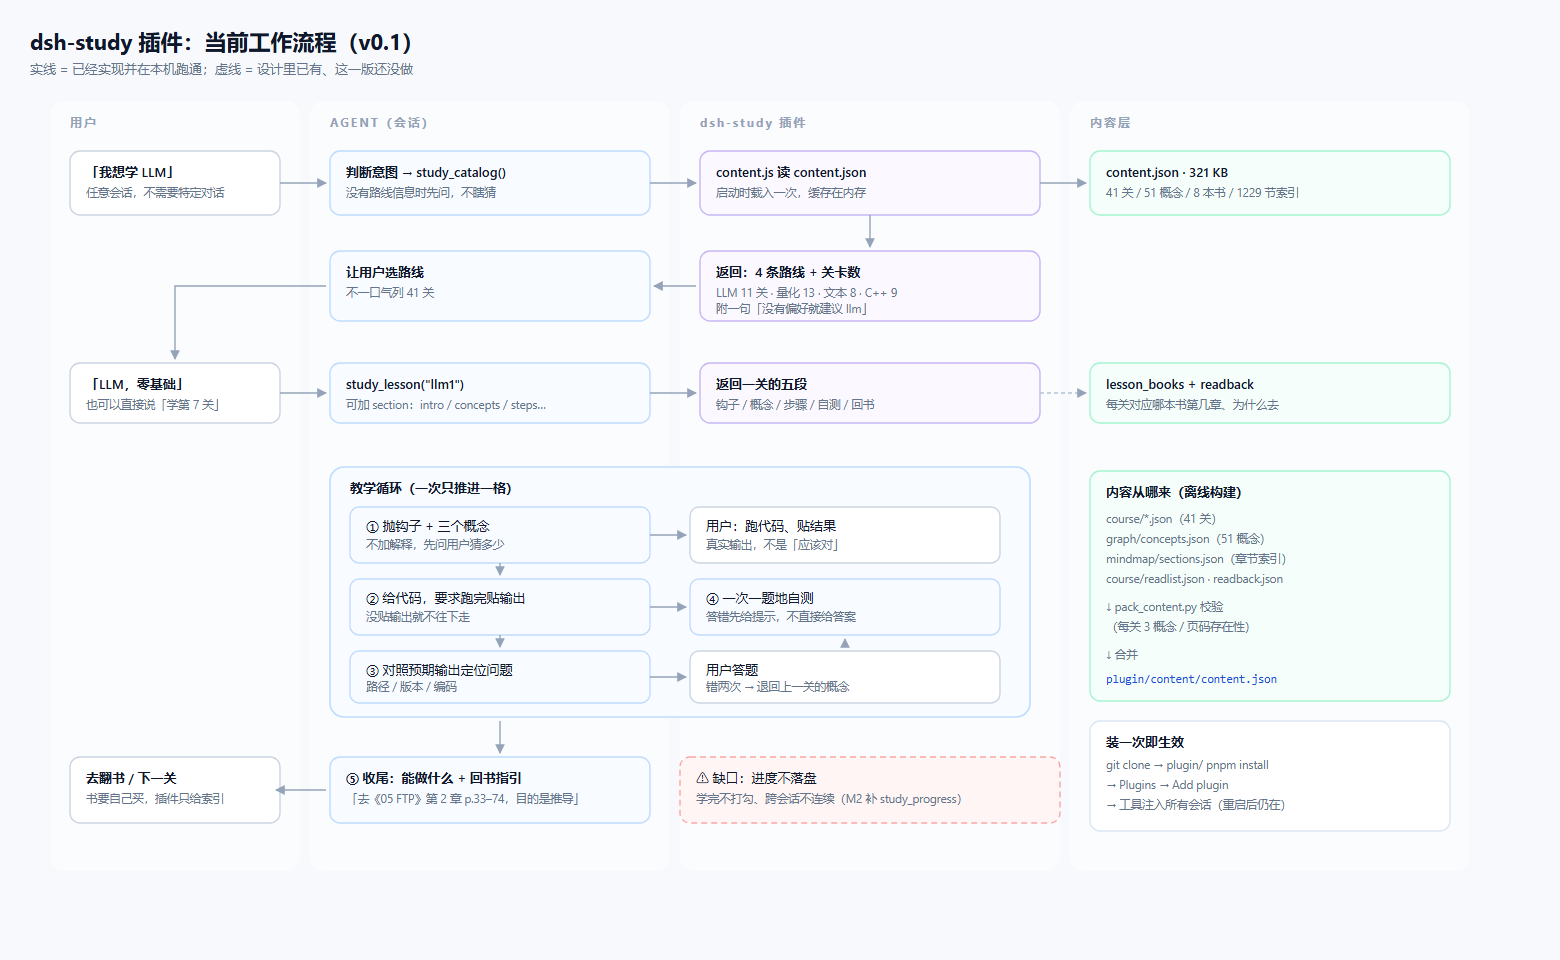
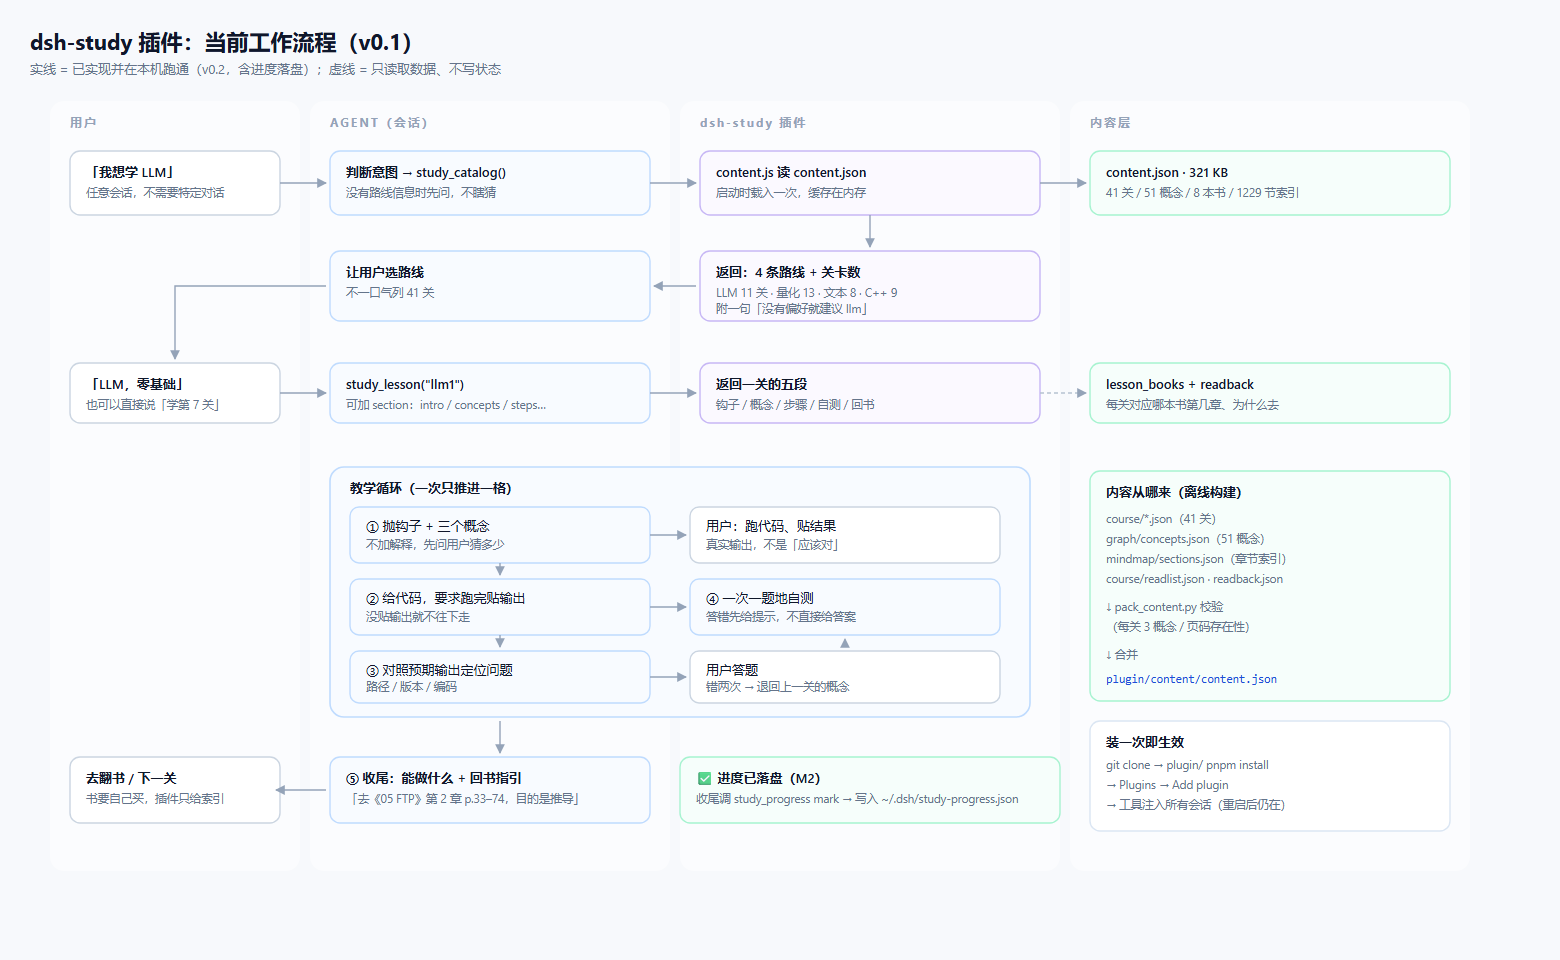
feat(plugin): v0.2 进度落盘 - study_progress 工具 + 续学逻辑

Changed region(s): [[0.4308, 0.7812, 0.6462, 0.8438], [0.0615, 0.0625, 0.3077, 0.0938]]

diff --git a/plugin/tools/progress.js b/plugin/tools/progress.js
@@ -1,0 +1,104 @@
+import { content, orderedLessons, nextLessonFor, lesson as getLesson } from '../content.js'
+import { load, save, mark, unmark, trackState } from '../progress.js'
+import { textOutput, ok } from './common.js'
+
+function summaryLine(trackDef, state) {
+  const ls = orderedLessons(trackDef.id)
+  const t = state.tracks?.[trackDef.id] || { done: [], current: null }
+  const done = ls.filter(l => t.done.includes(l.id)).length
+  const next = nextLessonFor(ls, t.done)
+  return {
+    id: trackDef.id,
+    name: trackDef.name,
+    done,
+    total: ls.length,
+    current: t.current,
+    next: next ? { id: next.id, title: next.title, min: next.min } : null,
+  }
+}
+
+export const progressTool = {
+  name: 'study_progress',
+  description:
+    '查看或更新学习进度：show 看每条线学到哪、下一关是什么；mark 把某一关标记为已完成；unmark 取消。进度存在本机，跨会话保留。',
+  parameters: {
+    action: {
+      type: 'string',
+      required: true,
+      description: 'show = 查看；mark = 标记完成；unmark = 取消标记。',
+    },
+    lesson_id: { type: 'string', description: 'mark / unmark 时的关卡 id，例如 l7、llm3。' },
+    track: { type: 'string', description: '只显示某条线（llm / quant / nlp / cpp）；省略则全部显示。' },
+  },
+  output: textOutput,
+  execute: async (args) => {
+    const action = String(args.action || 'show').toLowerCase()
+    const state = load()
+    const all = content().tracks
+
+    if (action === 'show') {
+      const list = args.track ? all.filter(t => t.id === args.track) : all
+      if (!list.length) return ok(`没有这条路线：${args.track}。可选：${all.map(t => t.id).join(' / ')}`)
+      const rows = list.map(t => summaryLine(t, state))
+      const lines = ['# 学习进度', '']
+      for (const r of rows) {
+        lines.push(`## ${r.name}：${r.done} / ${r.total}`)
+        if (r.next) lines.push(`下一关：[${r.next.id}] ${r.next.title} · ${r.next.min} 分钟`)
+        else lines.push('这条线已经全部完成。')
+        if (r.current) {
+          const cur = getLesson(r.current)
+          if (cur) lines.push(`最近完成：${cur.title}（${cur.id}）`)
+        }
+        lines.push('')
+      }
+      lines.push(`进度文件：${state.updated ? '最后更新 ' + state.updated : '还没记录过任何一关'}`)
+      return ok(lines.join('\n'))
+    }
+
+    const lessonId = String(args.lesson_id || '').trim()
+    if (!lessonId) return ok('mark / unmark 需要 lesson_id，例如 study_progress action=mark lesson_id=l7')
+
+    const l = getLesson(lessonId)
+    if (!l) return ok(`没有这一关：${lessonId}。可以先用 study_catalog 看关卡 id。`)
+    const trackId = l.track
+    if (!trackId) return ok(`这一关不属于任何路线：${lessonId}`)
+
+    const isMark = action === 'mark'
+    const before = (state.tracks?.[trackId]?.done || []).includes(lessonId)
+    if (isMark) mark(state, trackId, lessonId)
+    else unmark(state, trackId, lessonId)
+
+    const res = save(state)
+    const s = summaryLine(content().tracks.find(t => t.id === trackId), state)
+    const lines = []
+    if (isMark) {
+      lines.push(before ? `这一关之前就标过了：${l.title}` : `已标记完成：${l.title}（${lessonId}）`)
+    } else {
+      lines.push(`已取消标记：${l.title}（${lessonId}）`)
+    }
+    lines.push(`${s.name}：${s.done} / ${s.total}`)
+    if (s.next) lines.push(`下一关：[${s.next.id}] ${s.next.title} · ${s.next.min} 分钟`)
+    else lines.push('这条线全部完成了。')
+    if (!res.ok) lines.push(`⚠ 进度没能写入磁盘（${res.error}），本次会话有效，重启会丢。写在 ${res.path}`)
+
+    // 回书指引：完成一关后顺手给
+    if (isMark) {
+      const c = content()
+      const refs = c.lesson_books?.[lessonId] || []
+      const rb = c.readback?.[lessonId]
+      if (refs.length || rb) {
+        lines.push('', '## 回书')
+        if (rb) lines.push(`目的：**${rb[0]}** —— ${rb[1]}`)
+        for (const [code, ch] of refs) {
+          const book = c.books.find(b => b.code === code)
+          const secs = c.sections?.[code]?.[ch - 1] || []
+          const page = secs.length ? `p.${secs[0][1]}–${secs[secs.length - 1][1]}` : ''
+          lines.push(`- 《${code} ${book?.short || ''}》第 ${ch} 章 ${page}`)
+        }
+      }
+    }
+    return ok(lines.join('\n'))
+  },
+}
+
+export { trackState }

diff --git a/plugin/tools/catalog.js b/plugin/tools/catalog.js
@@ -1,10 +1,11 @@
-import { content, trackList } from '../content.js'
+import { content, trackList, orderedLessons, nextLessonFor } from '../content.js'
+import { load } from '../progress.js'
 import { textOutput, ok } from './common.js'
 
 export const catalogTool = {
   name: 'study_catalog',
   description:
-    '列出学习插件的所有路线，或某条路线下的关卡清单。先用它让用户选路线，再逐关教学。',
+    '列出学习插件的所有路线与当前进度，或某条路线下的关卡清单（已完成的打勾）。先用它让用户选路线，再逐关教学。',
   parameters: {
     track: {
       type: 'string',
@@ -14,18 +15,26 @@ export const catalogTool = {
   output: textOutput,
   execute: async (args) => {
     const tracks = trackList()
+    const state = load()
 
     if (!args.track) {
-      const lines = tracks.map(
-        t => `- ${t.name}（${t.id}）：${t.count} 关，约 ${Math.round(t.minutes / 60 * 10) / 10} 小时 —— ${t.sub}`,
-      )
+      const lines = tracks.map(t => {
+        const ls = orderedLessons(t.id)
+        const done = (state.tracks?.[t.id]?.done || []).filter(id => ls.some(l => l.id === id)).length
+        const next = nextLessonFor(ls, state.tracks?.[t.id]?.done || [])
+        const prog = done ? `已学 ${done}/${ls.length}，下一关 ${next ? next.id : '（完成）'}` : '还没开始'
+        return `- ${t.name}（${t.id}）：${ls.length} 关，约 ${Math.round(t.minutes / 60 * 10) / 10} 小时 · ${prog} —— ${t.sub}`
+      })
+      const started = tracks.some(t => (state.tracks?.[t.id]?.done || []).length)
       return ok([
         `# 8 本书 · 学习路线（内容版本 ${content().version}）`,
         '',
         ...lines,
         '',
-        '问用户想从哪条线开始；没有偏好就建议 llm（不需要显卡，前 4 关只调 API）。',
-        '选定后用 study_lesson 取第一关。',
+        started
+          ? '用户有进度：先问「继续上次那关，还是换一条线」。'
+          : '问用户想从哪条线开始；没有偏好就建议 llm（不需要显卡，前 4 关只调 API）。',
+        '选定后用 study_lesson 取关卡；学完用 study_progress mark 打勾。',
       ].join('\n'))
     }
 
@@ -34,23 +43,26 @@ export const catalogTool = {
       return ok(`没有这条路线：${args.track}。可选：${tracks.map(x => x.id).join(' / ')}`)
     }
 
+    const doneSet = new Set(state.tracks?.[t.id]?.done || [])
     const rows = []
     let n = 0
     for (const st of t.stages) {
       rows.push(`## ${st.name}${st.hint ? '（' + st.hint + '）' : ''}`)
       for (const l of st.lessons) {
         n += 1
-        rows.push(`${n}. [${l.id}] ${l.title} · ${l.min} 分钟`)
+        rows.push(`${doneSet.has(l.id) ? '✅' : '☐'} ${n}. [${l.id}] ${l.title} · ${l.min} 分钟`)
       }
     }
+    const total = t.stages.reduce((k, s) => k + s.lessons.length, 0)
     return ok([
       `# ${t.name} · ${t.sub}`,
       '',
       t.intro?.why ? `一句话：${t.intro.why}` : '',
+      `进度：${[...doneSet].filter(id => t.stages.some(s => s.lessons.some(l => l.id === id))).length} / ${total}`,
       '',
       ...rows,
       '',
-      '开始某一关时调用 study_lesson，参数 id 用方括号里的值。',
+      '开始某一关用 study_lesson，参数 id 用方括号里的值；学完用 study_progress mark。',
     ].filter(x => x !== '').join('\n'))
   },
 }

diff --git a/plugin/progress.js b/plugin/progress.js
@@ -1,0 +1,63 @@
+// 学习进度：存在 ~/.dsh/study-progress.json，每个用户一份。
+import { readFileSync, writeFileSync, mkdirSync, renameSync, existsSync } from 'node:fs'
+import { homedir } from 'node:os'
+import { join, dirname } from 'node:path'
+
+const FILE = () => {
+  const home = process.env.DSH_HOME || join(homedir(), '.dsh')
+  return join(home, 'study-progress.json')
+}
+
+const EMPTY = () => ({ version: 1, updated: null, tracks: {}, notes: {} })
+
+export function load() {
+  try {
+    const p = FILE()
+    if (!existsSync(p)) return EMPTY()
+    const d = JSON.parse(readFileSync(p, 'utf8'))
+    return { ...EMPTY(), ...d, tracks: d.tracks || {}, notes: d.notes || {} }
+  } catch {
+    return EMPTY()
+  }
+}
+
+export function save(state) {
+  const p = FILE()
+  try {
+    mkdirSync(dirname(p), { recursive: true })
+    const tmp = p + '.tmp'
+    state.updated = new Date().toISOString()
+    writeFileSync(tmp, JSON.stringify(state, null, 1), 'utf8')
+    renameSync(tmp, p)
+    return { ok: true, path: p }
+  } catch (e) {
+    return { ok: false, path: p, error: String(e && e.message || e) }
+  }
+}
+
+export function trackState(state, trackId) {
+  if (!state.tracks[trackId]) state.tracks[trackId] = { done: [], current: null }
+  return state.tracks[trackId]
+}
+
+export function mark(state, trackId, lessonId) {
+  const t = trackState(state, trackId)
+  if (!t.done.includes(lessonId)) t.done.push(lessonId)
+  t.current = lessonId
+  return t
+}
+
+export function unmark(state, trackId, lessonId) {
+  const t = trackState(state, trackId)
+  t.done = t.done.filter(x => x !== lessonId)
+  if (t.current === lessonId) t.current = t.done[t.done.length - 1] || null
+  return t
+}
+
+export function isDone(state, trackId, lessonId) {
+  return (state.tracks?.[trackId]?.done || []).includes(lessonId)
+}
+
+export function storePath() {
+  return FILE()
+}

diff --git a/docs/flow.html b/docs/flow.html
@@ -24,7 +24,7 @@
 </style></head><body>
 <div class="wrap">
   <h1>dsh-study 插件：当前工作流程（v0.1）</h1>
-  <div class="sub">实线 = 已经实现并在本机跑通；虚线 = 设计里已有、这一版还没做</div>
+  <div class="sub">实线 = 已实现并在本机跑通（v0.2，含进度落盘）；虚线 = 只读取数据、不写状态</div>
   <svg width="1460" height="880" viewBox="0 0 1460 880">
     <defs>
       <marker id="a" viewBox="0 0 10 10" refX="9" refY="5" markerWidth="7" markerHeight="7" orient="auto-start-reverse">
@@ -149,9 +149,9 @@
     <path class="arrow" d="M296,699 L246,699"/>
 
     <!-- 缺口 -->
-    <rect class="box gap" x="650" y="666" width="380" height="66" rx="10"/>
-    <text class="t" x="666" y="692" fill="#b91c1c">⚠ 缺口：进度不落盘</text>
-    <text class="t s" x="666" y="712" fill="#dc2626">学完不打勾、跨会话不连续（M2 补 study_progress）</text>
+    <rect class="box data" x="650" y="666" width="380" height="66" rx="10"/>
+    <text class="t b" x="666" y="692" fill="#047857">✅ 进度已落盘（M2）</text>
+    <text class="t s" x="666" y="712" fill="#059669">收尾调 study_progress mark → 写入 ~/.dsh/study-progress.json</text>
 
     <!-- 内容链路 -->
     <rect class="box data" x="1060" y="380" width="360" height="230" rx="10"/>

diff --git a/plugin/index.js b/plugin/index.js
@@ -4,6 +4,7 @@ import { defineTool } from '@deepseek-ai/dsh-tools'
 import { catalogTool } from './tools/catalog.js'
 import { lessonTool } from './tools/lesson.js'
 import { searchTool } from './tools/search.js'
+import { progressTool } from './tools/progress.js'
 import { content } from './content.js'
 
 export const inject = ['tools']
@@ -12,7 +13,7 @@ export function apply(ctx) {
   const c = content()
   const count = Object.keys(c.lessons).length
 
-  for (const def of [catalogTool, lessonTool, searchTool]) {
+  for (const def of [catalogTool, lessonTool, searchTool, progressTool]) {
     ctx.tools.register(defineTool(def))
   }
 

diff --git a/plugin/content.js b/plugin/content.js
@@ -48,3 +48,11 @@ export function findLessonByTitle(text) {
     || all.find(l => l.title.toLowerCase().includes(q))
     || null
 }
+
+// 下一关：以「最后完成的那一关」为锚点往后找，避免总把人送回第一关
+export function nextLessonFor(list, doneIds) {
+  const done = new Set(doneIds || [])
+  let last = -1
+  list.forEach((l, i) => { if (done.has(l.id)) last = i })
+  return list.slice(last + 1).find(l => !done.has(l.id)) || list.find(l => !done.has(l.id)) || null
+}

diff --git a/plugin/docs/DETAIL.md b/plugin/docs/DETAIL.md
@@ -13,9 +13,10 @@
 
 | 工具 | 用途 |
 |---|---|
-| `study_catalog` | 路线概览，或某条线的关卡清单 |
+| `study_catalog` | 路线概览 + 当前进度，或某条线的关卡清单（已完成打勾） |
 | `study_lesson` | 某一关的完整内容，可用 `section` 只取一部分 |
 | `study_search` | 搜索关卡 / 概念 / 书章 |
+| `study_progress` | 查看进度、标记完成（存本机，跨会话保留） |
 
 ## 典型用法
 
@@ -36,7 +37,7 @@ agent：（study_lesson start）第 1 关「从打开终端开始」……
 ## 限制（请先读）
 
 1. **不提供原书 PDF**。课程里写「《05 FTP》第 2 章 p.33–74」只是索引，书需要你自己购买或借阅。
-2. **不保存学习进度**（v0.1）。每次会话独立，进度靠你自己记或记在笔记里。
+2. **进度存在本机** `~/.dsh/study-progress.json`，不上传、不跨设备同步。删掉这个文件等于清空进度。
 3. **不能替你跑代码**。动手部分的代码需要你在本机执行；插件只提供代码与预期输出。
 4. **内容是我个人整理的学习路线**，不是官方教材，遇到与书冲突的地方以书为准。
 

diff --git a/README.md b/README.md
@@ -65,7 +65,7 @@ docs/            学习路线、环境配置、进度表、插件设计
 
 `plugin/` 是一个 DeepSeek Harness 插件：装上后可以在任意对话里说「我想学 LLM」，agent 会逐关带你学。
 
-三个工具：`study_catalog`（路线/关卡）、`study_lesson`（一关的完整内容）、`study_search`（搜概念与章节）。
+四个工具：`study_catalog`（路线/关卡/进度）、`study_lesson`（一关的完整内容）、`study_search`（搜概念与章节）、`study_progress`（打勾与续学）。
 
 ```bash
 git clone https://github.com/JACOB0876/dsh-study.git

diff --git a/docs/flow.md b/docs/flow.md
@@ -26,8 +26,13 @@ flowchart TD
 
   B5 --> END1["用户：去翻书 / 下一关"]
   A1 -.-> S["study_search（可选）<br/>搜概念与章节"]
-  B5 -.-> GAP["缺口（M2）：进度不落盘<br/>学完不打勾、跨会话不连续"]
+  B5 --> DONE["study_progress(mark)<br/>写入 ~/.dsh/study-progress.json"]
 ```
+
+## 进度（v0.2 起）
+
+每关收尾时 agent 调 `study_progress action=mark lesson_id=<id>`；
+下一次会话 `study_catalog` 会直接显示「已学 3/13，下一关 l5」。
 
 ## 两条离线链路
 

diff --git a/plugin/README.md b/plugin/README.md
@@ -9,6 +9,7 @@
 | `study_catalog` | 列出 4 条路线，或某条线的关卡清单 |
 | `study_lesson` | 取一关的完整内容（可用 `section` 只取一部分） |
 | `study_search` | 搜关卡 / 概念 / 书章 |
+| `study_progress` | 查看进度 / 标记完成（写 `~/.dsh/study-progress.json`） |
 
 ## 安装
 
@@ -63,7 +64,7 @@ python scripts/pack_content.py
 ## 限制
 
 - 不提供原书 PDF
-- v0.1 不保存学习进度
+- 进度只存本机，不跨设备同步
 - 不能替用户跑代码
 
 ## 开发
